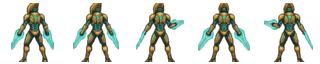
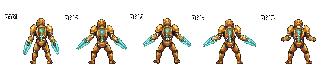
라운드 21 — 광전사 교체·흔들림 개선·결투 매트릭스·충전 스킬·지형 조사
- 광전사 4행 턴어라운드 교체 (보행 사이클 선명)
- 화면 흔들림: 구조물 파괴만 + 쿨다운 600ms (대군 멀미 제거)
- tools/duel-matrix.mjs: 전 유닛 등코스트 매트릭스, 전패 2종 상향
  (가시뱉는것·그림자), 술사 반보 복원
- 충전 스킬: 융단폭격→전투비행선, 정신붕괴→술사 — 게이지 14초,
  사거리 7타일 자동 발사. 주문 카드 퇴역, 게이지 바·발사 링
- MAP_RULES §8: 스타1 높이 표현 5기법 조사·적용 순서
- REPLAY_VERSION 12, 테스트 68개 통과

Claude-Session: https://claude.ai/code/session_01NexbDPSAtwGDSwo3StwTsK

diff --git a/packages/client/src/render.ts b/packages/client/src/render.ts
@@ -25,6 +25,8 @@ import {
   GameState,
   MINERAL_PATCHES,
   SCALE,
+  SKILL_CHARGE_TICKS,
+  SKILL_CAST_RANGE,
   WALLS,
   blockedTile,
   elevTile,
@@ -232,7 +234,7 @@ export class Renderer {
     // world 컨테이너 전체를 밀므로 지형·유닛·이펙트가 한 몸으로 흔들린다
     const shakeLeft = this.shakeUntil - this.nowMs;
     if (shakeLeft > 0) {
-      const amp = 3 * Math.min(1, shakeLeft / 130);
+      const amp = 3 * Math.min(1, shakeLeft / 150);
       this.world.position.set((Math.random() * 2 - 1) * amp, (Math.random() * 2 - 1) * amp);
     } else {
       this.world.position.set(0, 0);
@@ -776,6 +778,16 @@ export class Renderer {
         this.progressBar(d, sx, by + r + 6, r * 2, 1 - e.deploy / DEPLOY_TICKS);
       }
       this.hpBar(d, sx, by - r - 6, PX_PER_TILE * 1.1, e);
+      // 충전 스킬 게이지 — 청록 바. 만땅이면 밝게 빛나 "곧 쏜다"를 알린다
+      if (getUnit(e.unit).charges && e.charge > 0) {
+        const w = PX_PER_TILE * 1.1;
+        const frac = Math.min(1, e.charge / SKILL_CHARGE_TICKS);
+        const gy = by - r - (e.hp < e.maxHp ? 11 : 6);
+        d.rect(sx - w / 2, gy, w, 2.5);
+        d.fill({ color: 0x0f172a, alpha: 0.7 });
+        d.rect(sx - w / 2, gy, w * frac, 2.5);
+        d.fill({ color: frac >= 1 ? 0x67e8f9 : 0x22d3ee, alpha: frac >= 1 ? 1 : 0.8 });
+      }
     }
 
     this.spawnFx(state, myTeam);
@@ -1010,8 +1022,10 @@ export class Renderer {
   private readonly lastHp = new Map<number, number>();
   /** 엔티티별 피격 플래시가 꺼지는 시각(ms) */
   private readonly flashUntil = new Map<number, number>();
-  /** 화면 흔들림이 끝나는 시각(ms) — 죽음 이펙트가 갱신한다 */
+  /** 화면 흔들림이 끝나는 시각(ms) — 구조물 파괴가 갱신한다 */
   private shakeUntil = 0;
+  /** 마지막 흔들림 시작 시각 — 연쇄 파괴 쿨다운용 */
+  private lastShakeMs = -9999;
 
   advanceAnimations(deltaMs: number): void {
     this.nowMs += deltaMs;
@@ -1078,10 +1092,12 @@ export class Renderer {
 
   /** 발사 감지용 — frameFor의 prevCd와 별도로 둬서 서로 간섭하지 않는다 */
   private readonly fxPrevCd = new Map<number, number>();
+  /** 충전 스킬 발사 감지 — 만땅에서 0으로 떨어지면 방금 쐈다 */
+  private readonly fxPrevCharge = new Map<number, number>();
   /** 직전 프레임에 살아 있던 엔티티 — 사라지면 그 자리에 죽음 이펙트 */
   private readonly fxSeen = new Map<
     number,
-    { sx: number; sy: number; faction: string; flying: boolean }
+    { sx: number; sy: number; faction: string; flying: boolean; kind: string }
   >();
   private fxLastTick = -1;
   /** 원거리 사격의 히트스캔 트레이서 — 120ms 섬광 한 줄 */
@@ -1109,6 +1125,7 @@ export class Renderer {
     // 틱이 뒤로 갔으면 새 경기다 — 이전 경기의 기억으로 이펙트를 만들면 안 된다
     if (state.tick < this.fxLastTick) {
       this.fxPrevCd.clear();
+      this.fxPrevCharge.clear();
       this.fxSeen.clear();
       this.fxList.length = 0;
       this.tracers.length = 0;
@@ -1123,6 +1140,28 @@ export class Renderer {
     for (const e of state.entities) byId.set(e.id, e);
 
     for (const e of state.entities) {
+      // 충전 스킬 발사 — 시뮬과 같은 규칙(사거리 안 최근접 적)으로 표적을
+      // 되짚어 그 자리에 큰 링을 그린다. 렌더 전용 추정이라 어긋나도 무해
+      const pc = this.fxPrevCharge.get(e.id);
+      this.fxPrevCharge.set(e.id, e.charge);
+      if (pc !== undefined && pc >= SKILL_CHARGE_TICKS && e.charge < pc) {
+        let bx = e.x;
+        let by2 = e.y;
+        let bd = SKILL_CAST_RANGE * SKILL_CAST_RANGE + 1;
+        for (const o of state.entities) {
+          if (o.team === e.team || o.kind === 'base') continue;
+          const dd = (o.x - e.x) ** 2 + (o.y - e.y) ** 2;
+          if (dd < bd) {
+            bd = dd;
+            bx = o.x;
+            by2 = o.y;
+          }
+        }
+        const [tx, ty] = this.toScreen(bx, by2, myTeam);
+        const faction = state.players[e.team].faction;
+        this.pushFx(FX_IMPACT[faction], FX_COLOR[faction], tx, ty, 650, PX_PER_TILE * 3.2);
+        this.onFx?.('impact', faction, tx);
+      }
       const prev = this.fxPrevCd.get(e.id);
       this.fxPrevCd.set(e.id, e.cd);
       if (prev === undefined || e.cd <= prev) continue;
@@ -1158,6 +1197,7 @@ export class Renderer {
       if (byId.has(id)) continue;
       this.fxSeen.delete(id);
       this.fxPrevCd.delete(id);
+      this.fxPrevCharge.delete(id);
       this.pushFx(
         FX_DEATH[seen.faction],
         FX_COLOR[seen.faction],
@@ -1167,9 +1207,14 @@ export class Renderer {
         PX_PER_TILE * 1.3,
       );
       this.onFx?.('death', seen.faction, seen.sx);
-      // 죽음의 무게 — 130ms의 미세한 화면 흔들림. 이미 흔들리는 중이면
-      // 연장만 한다 (대군 전멸에서 진폭이 누적되면 멀미가 된다)
-      this.shakeUntil = Math.max(this.shakeUntil, this.nowMs + 130);
+      // 흔들림은 **구조물 파괴에만** — 유닛 하나하나에 흔들면 대군 전투에서
+      // 화면이 상시 진동해 멀미가 된다 (라운드 21 실전 보고). 유닛 죽음의
+      // 무게는 플래시·연기·데칼·사운드가 이미 지고 있다. 쿨다운 600ms로
+      // 연쇄 파괴도 한 번만 흔든다
+      if (seen.kind !== 'unit' && this.nowMs - this.lastShakeMs > 600) {
+        this.shakeUntil = this.nowMs + 150;
+        this.lastShakeMs = this.nowMs;
+      }
       // 지상 유닛은 그을음을 남긴다 — 전투의 역사가 잠시 땅에 쓰인다
       if (!seen.flying) {
         if (this.decals.length >= 60) this.decals.shift();
@@ -1183,6 +1228,7 @@ export class Renderer {
         sy,
         faction: state.players[e.team].faction,
         flying: e.flying,
+        kind: e.kind,
       });
     }
   }

diff --git a/packages/shared/src/sim.ts b/packages/shared/src/sim.ts
@@ -57,6 +57,8 @@ import {
   WORKER_MINE_PER_TICK,
   WORKER_LOSS_DAMAGE,
   EXPAND_RANGE,
+  SKILL_CHARGE_TICKS,
+  SKILL_CAST_RANGE,
 } from './constants.js';
 import {
   DEFAULT_FACTION_ID,
@@ -98,6 +100,8 @@ export interface Entity {
   target: number;
   /** 공중 유닛인가 */
   flying: boolean;
+  /** 충전 스킬 게이지 (틱). 스킬 없는 엔티티는 0에 머문다 */
+  charge: number;
 
   /* ── 기지 전용 ── */
   /** 기지가 선 지점 id. 기지가 아니면 -1 */
@@ -204,6 +208,7 @@ function makeBase(s: GameState, team: Team, site: BaseSite, ready: boolean): Ent
     life: -1,
     target: -1,
     flying: false,
+    charge: 0,
     siteId: site.id,
     isMain,
     reserve: BASE_MINERAL_RESERVE,
@@ -468,6 +473,7 @@ function spawnUnit(s: GameState, team: Team, u: UnitDef, x: number, y: number): 
     life: u.lifetime,
     target: -1,
     flying: u.flying,
+    charge: 0,
     siteId: -1,
     isMain: false,
     reserve: 0,
@@ -761,6 +767,42 @@ export function step(s: GameState, cmds: readonly Command[]): void {
     if (e.cd > 0) e.cd--;
   }
   reap(s);
+
+  // 4.5) 충전 스킬 — 게이지가 차면 사거리 안 가장 가까운 적에게 자동 발사.
+  // 읽기 패스로 발사 목록을 모은 뒤 한꺼번에 적용한다 (reap이 배열을 바꾸므로)
+  const casts: Array<{ team: Team; spell: UnitDef; x: number; y: number; caster: Entity }> = [];
+  for (const e of s.entities) {
+    if (e.kind !== 'unit' || e.deploy > 0) continue;
+    const spellId = getUnit(e.unit).charges;
+    if (!spellId) continue;
+    if (e.charge < SKILL_CHARGE_TICKS) {
+      e.charge++;
+      continue;
+    }
+    const spell = getUnit(spellId);
+    let bx = 0;
+    let by = 0;
+    let bestD2 = SKILL_CAST_RANGE * SKILL_CAST_RANGE + 1;
+    for (const o of s.entities) {
+      if (o.team === e.team || o.kind === 'base' || o.deploy > 0) continue;
+      if (spell.targets === 'ground' && o.flying) continue;
+      if (spell.targets === 'air' && !o.flying) continue;
+      const d2 = dist2(e.x, e.y, o.x, o.y);
+      // 엄격 부등호 + id 오름차순 순회 = 동률이면 id 작은 쪽 (결정론)
+      if (d2 < bestD2) {
+        bestD2 = d2;
+        bx = o.x;
+        by = o.y;
+      }
+    }
+    if (bestD2 <= SKILL_CAST_RANGE * SKILL_CAST_RANGE) {
+      casts.push({ team: e.team, spell, x: bx, y: by, caster: e });
+    }
+  }
+  for (const c of casts) {
+    applySpell(s, c.team, c.spell, c.x, c.y);
+    c.caster.charge = 0;
+  }
 
   // 5) 타겟 선정 (읽기 전용 패스)
   const n = s.entities.length;
@@ -1059,6 +1101,7 @@ export function hashState(s: GameState): number {
   for (const e of s.entities) {
     mix(e.id);
     mix(e.team);
+    mix(e.charge);
     mix(e.x);
     mix(e.y);
     mix(e.hp);

diff --git a/packages/shared/src/units.ts b/packages/shared/src/units.ts
@@ -50,6 +50,8 @@ export interface UnitDef {
   /** 광역 피해 반경 (밀리타일). 0이면 단일 대상 */
   splash: number;
   targets: TargetPref;
+  /** 충전 스킬 — 게이지가 차면 이 주문을 사거리 안에서 자동 발사한다 */
+  charges?: string;
   /**
    * 구조물(기지·건물) 상대 데미지 배율 — **백분율 정수** (100 = 그대로).
    *
@@ -140,6 +142,7 @@ const defs: UnitDef[] = [
     id: 'gunship', name: '전투비행선', cost: 4, kind: 'unit', flying: true,
     hp: 700, damage: 100, hitSpeed: seconds(1.3, TICK_RATE),
     range: tiles(3.0), speed: spd(1.1), siege: 120, color: 0x0891b2,
+    charges: 'carpetbomb',
   }),
   unit({
     id: 'carpetbomb', name: '융단폭격', cost: 3, kind: 'spell', count: 0,
@@ -156,8 +159,9 @@ const defs: UnitDef[] = [
     range: tiles(0.7), speed: spd(1.5), targets: 'ground', siege: 40, color: 0xa16207,
   }),
   unit({
+    // 라운드 21 상향: 결투 매트릭스 0/14 전패 — 군체 유일 대공의 몸값을 못 했다
     id: 'spitter', name: '가시뱉는것', cost: 3, kind: 'unit', count: 2,
-    hp: 300, damage: 65, hitSpeed: seconds(1.0, TICK_RATE),
+    hp: 340, damage: 80, hitSpeed: seconds(1.0, TICK_RATE),
     range: tiles(4.5), speed: spd(1.05), siege: 50, color: 0x84cc16,
   }),
   unit({
@@ -212,9 +216,10 @@ const defs: UnitDef[] = [
     // 라운드 20 너프: 등코스트 전 매치업 무손실 전승 관측(130/1.6s/2.0).
     // 물어뜯는것만 1방, 소총병은 2방 유지 — 범위 학살의 '속도'만 깎는다
     id: 'mystic', name: '술사', cost: 4, kind: 'unit',
-    hp: 300, damage: 110, hitSpeed: seconds(1.9, TICK_RATE),
+    hp: 300, damage: 110, hitSpeed: seconds(1.7, TICK_RATE),
     range: tiles(5.0), speed: spd(0.9), splash: tiles(1.7),
     targets: 'ground', siege: 80, color: 0x8b5cf6,
+    charges: 'mindbreak',
   }),
   unit({
     id: 'fusionite', name: '융합체', cost: 5, kind: 'unit',
@@ -229,9 +234,10 @@ const defs: UnitDef[] = [
     range: tiles(5.5), speed: 0, lifetime: BUILDING_LIFE, color: 0xfcd34d,
   }),
   unit({
+    // 라운드 21 상향: 0/14 전패 — 암살자가 접근 전에 죽었다. 발과 맷집을 준다
     id: 'shade', name: '그림자', cost: 4, kind: 'unit',
-    hp: 550, damage: 320, hitSpeed: seconds(1.8, TICK_RATE),
-    range: tiles(0.8), speed: spd(1.2), targets: 'ground', siege: 70, color: 0x4c1d95,
+    hp: 650, damage: 320, hitSpeed: seconds(1.8, TICK_RATE),
+    range: tiles(0.8), speed: spd(1.35), targets: 'ground', siege: 70, color: 0x4c1d95,
   }),
   unit({
     id: 'skiff', name: '부유선', cost: 4, kind: 'unit', flying: true,

diff --git a/packages/shared/src/constants.ts b/packages/shared/src/constants.ts
@@ -92,6 +92,17 @@ export const BASE_MINERAL_RESERVE = 200 * MINERAL_SCALE;
  * 12로 올려 확장을 '모아서 지르는 결정'으로 만든다 (라운드 9 피드백).
  */
 export const BASE_BUILD_COST = 12 * MINERAL_SCALE;
+/**
+ * 충전 스킬 (라운드 21) — 주문 카드를 유닛 안으로 흡수했다.
+ *
+ * 융단폭격·정신붕괴는 "전맵 사거리 즉발"이라 사기적이었고(오너 보고),
+ * 카드로 남겨두면 다양성이 아니라 자원 변환기가 된다. 이제 보유 유닛
+ * (전투비행선·술사)이 게이지를 채워 **사거리 안에서** 자동 발사한다 —
+ * 스킬을 쓰려면 그 유닛을 뽑아 전선에 살려 둬야 한다.
+ */
+export const SKILL_CHARGE_TICKS = 14 * TICK_RATE;
+export const SKILL_CAST_RANGE = 7000; // 7타일 (밀리타일)
+
 /** 기지 건설 후 가동까지 걸리는 시간 (틱) — 4초.
  * 라운드 20에서 2초→4초: "확장이 무조건 정답"이라는 실전 관측에 대한
  * 두 번째 브레이크(첫 번째는 라운드 10C의 확장비 12). 건설 중 기지는

diff --git a/packages/client/src/main.ts b/packages/client/src/main.ts
@@ -17,6 +17,8 @@ import {
   GameState,
   MATCH_TICKS,
   MINERAL_MAX,
+  SKILL_CAST_RANGE,
+  SKILL_CHARGE_TICKS,
   MINERAL_SCALE,
   OVERTIME_TICKS,
   TICK_RATE,
@@ -842,6 +844,13 @@ function unitTipHtml(id: string): string {
     }
     if (u.kind === 'building' && u.lifetime > 0) {
       rows.push(`수명 ${Math.round(u.lifetime / TICK_RATE)}초`);
+    }
+    if (u.charges) {
+      const sp = getUnit(u.charges);
+      rows.push(
+        `<span class="tt-warn">⚡ ${sp.name} — 게이지 ${SKILL_CHARGE_TICKS / TICK_RATE}초 충전 후 ` +
+          `사거리 ${SKILL_CAST_RANGE / 1000} 안에서 자동 발사 (광역 ${sp.damage})</span>`,
+      );
     }
   }
 

diff --git a/packages/shared/src/replay.ts b/packages/shared/src/replay.ts
@@ -33,7 +33,7 @@ import { DEFAULT_MAP_ID } from './arena.js';
 
 /** 포맷 버전. 시뮬 규칙이 바뀌어 과거 리플레이가 재현 불가능해지면 올린다. */
 // v4: 언덕(고지) 데미지 감쇄 도입 — 이전 리플레이는 재현 불가
-export const REPLAY_VERSION = 11; // v11 = 술사 너프·기지 건설 4초 (라운드 20)
+export const REPLAY_VERSION = 12; // v12 = 충전 스킬(주문 흡수)·결투 매트릭스 패치 (라운드 21)
 
 /** 경기가 진행될 수 있는 최대 틱 (정규 + 연장) */
 export const MAX_MATCH_TICKS = MATCH_TICKS + OVERTIME_TICKS;

diff --git a/packages/shared/src/factions.ts b/packages/shared/src/factions.ts
@@ -66,7 +66,6 @@ const defs: FactionDef[] = [
       tier1('ironwalker'),
       tier2('siegetank', 'scoutcar'),
       tier2('gunship', 'ironwalker'),
-      tier2('carpetbomb', 'bulwark'),
     ],
   },
   {
@@ -100,7 +99,6 @@ const defs: FactionDef[] = [
       tier1('mystic'),
       tier2('fusionite', 'strider'),
       tier2('skiff', 'mystic'),
-      tier2('mindbreak', 'shade'),
     ],
   },
 ];

diff --git a/docs/MAP_RULES.md b/docs/MAP_RULES.md
@@ -83,3 +83,20 @@
    만들고, 양 본진에서 전 지점 도달을 확인 (§4의 사고 재발 방지)
 4. `pnpm balance --seeds 8` — 경기가 끝나는지, 첫 교전·길이 지표
 5. 스크린샷으로 절벽·협곡·램프가 그림으로 읽히는지 확인
+
+## 8. 다음 지형 라운드 계획 — 스타1의 높이 표현 기법 (라운드 21 조사)
+
+스타크래프트가 "언덕이 언덕으로 보이는" 이유는 다섯 가지 기법의 합이다.
+우리 지형과의 격차를 비용 순으로 적는다:
+
+| 순위 | 기법 | 스타1 | 우리 현재 | 비용 |
+|---|---|---|---|---|
+| 1 | **절벽 그림자 드리움** | 남서광 기준 저지에 2~3타일 방향성 그림자 | 발치 4px 띠(라운드 18에 디더 추가) | 렌더만 — 싸다 |
+| 2 | **절벽 벽면 2타일** | 고지 남쪽에 수직 벽면이 1.5~2타일 — 높이가 '보인다' | 벽면 1타일 | 렌더 오버레이(기존 절벽 타일 하단 연장). 유닛 가림 순서 주의 |
+| 3 | **두들(지형 소품)** | 바위·풀·해골이 통행과 무관하게 흩어짐 | 없음 | 소품 시트 1장(오너 생성) + 좌표 시드 배치 |
+| 4 | **램프 전용 아트** | 경사면 타일 — 오르는 길이 그림으로 읽힘 | 벽 사이 틈 | 램프 위치 자동 검출 + 경사 그라데이션. 중간 비용 |
+| 5 | **고도별 팔레트 온도** | 고지=밝고 따뜻, 저지=어둡고 차가움 | 마른 땅/잔디 색상 차이만 | 타일셋 후처리 도구 |
+
+**적용 순서 제안**: 1(그림자) → 2(벽면) → 3(두들 — 아트 발주 필요) →
+4(램프) → 5(온도). 1·2는 한 라운드에 묶을 수 있다. 전부 렌더 전용 —
+시뮬 지형 규칙은 변하지 않는다.

diff --git a/docs/STEAM_PLAN.md b/docs/STEAM_PLAN.md
@@ -46,6 +46,13 @@ Render 단일 서비스 배포. **"재미를 판단할 수 없는 상태"는 지
 - [ ] 투사체 아크(곡사) — 공성전차 등 원거리 포격의 포물선 궤적
 - [ ] 유닛 등장 연출 (배치 시 낙하/워프)
 
+## 유닛 스킬 로드맵 (라운드 21 방향)
+
+충전 스킬(게이지→자동 발사) 틀이 생겼다 — 융단폭격(전투비행선)·정신붕괴
+(술사)가 1호. 오너가 원하는 다양성 축을 같은 틀로 확장한다:
+은신(그림자), 디텍팅(정찰차), 장거리 시즈모드(공성전차), 지뢰(방벽),
+속도증가(굴착충). 종족당 2~3개씩, 한 라운드에 1~2개씩 실측하며 추가.
+
 ## 관찰 항목
 
 - **봇전 난이도** — 라운드 16에서 초·중·고급 3단계로 해소 (손 속도·경제
